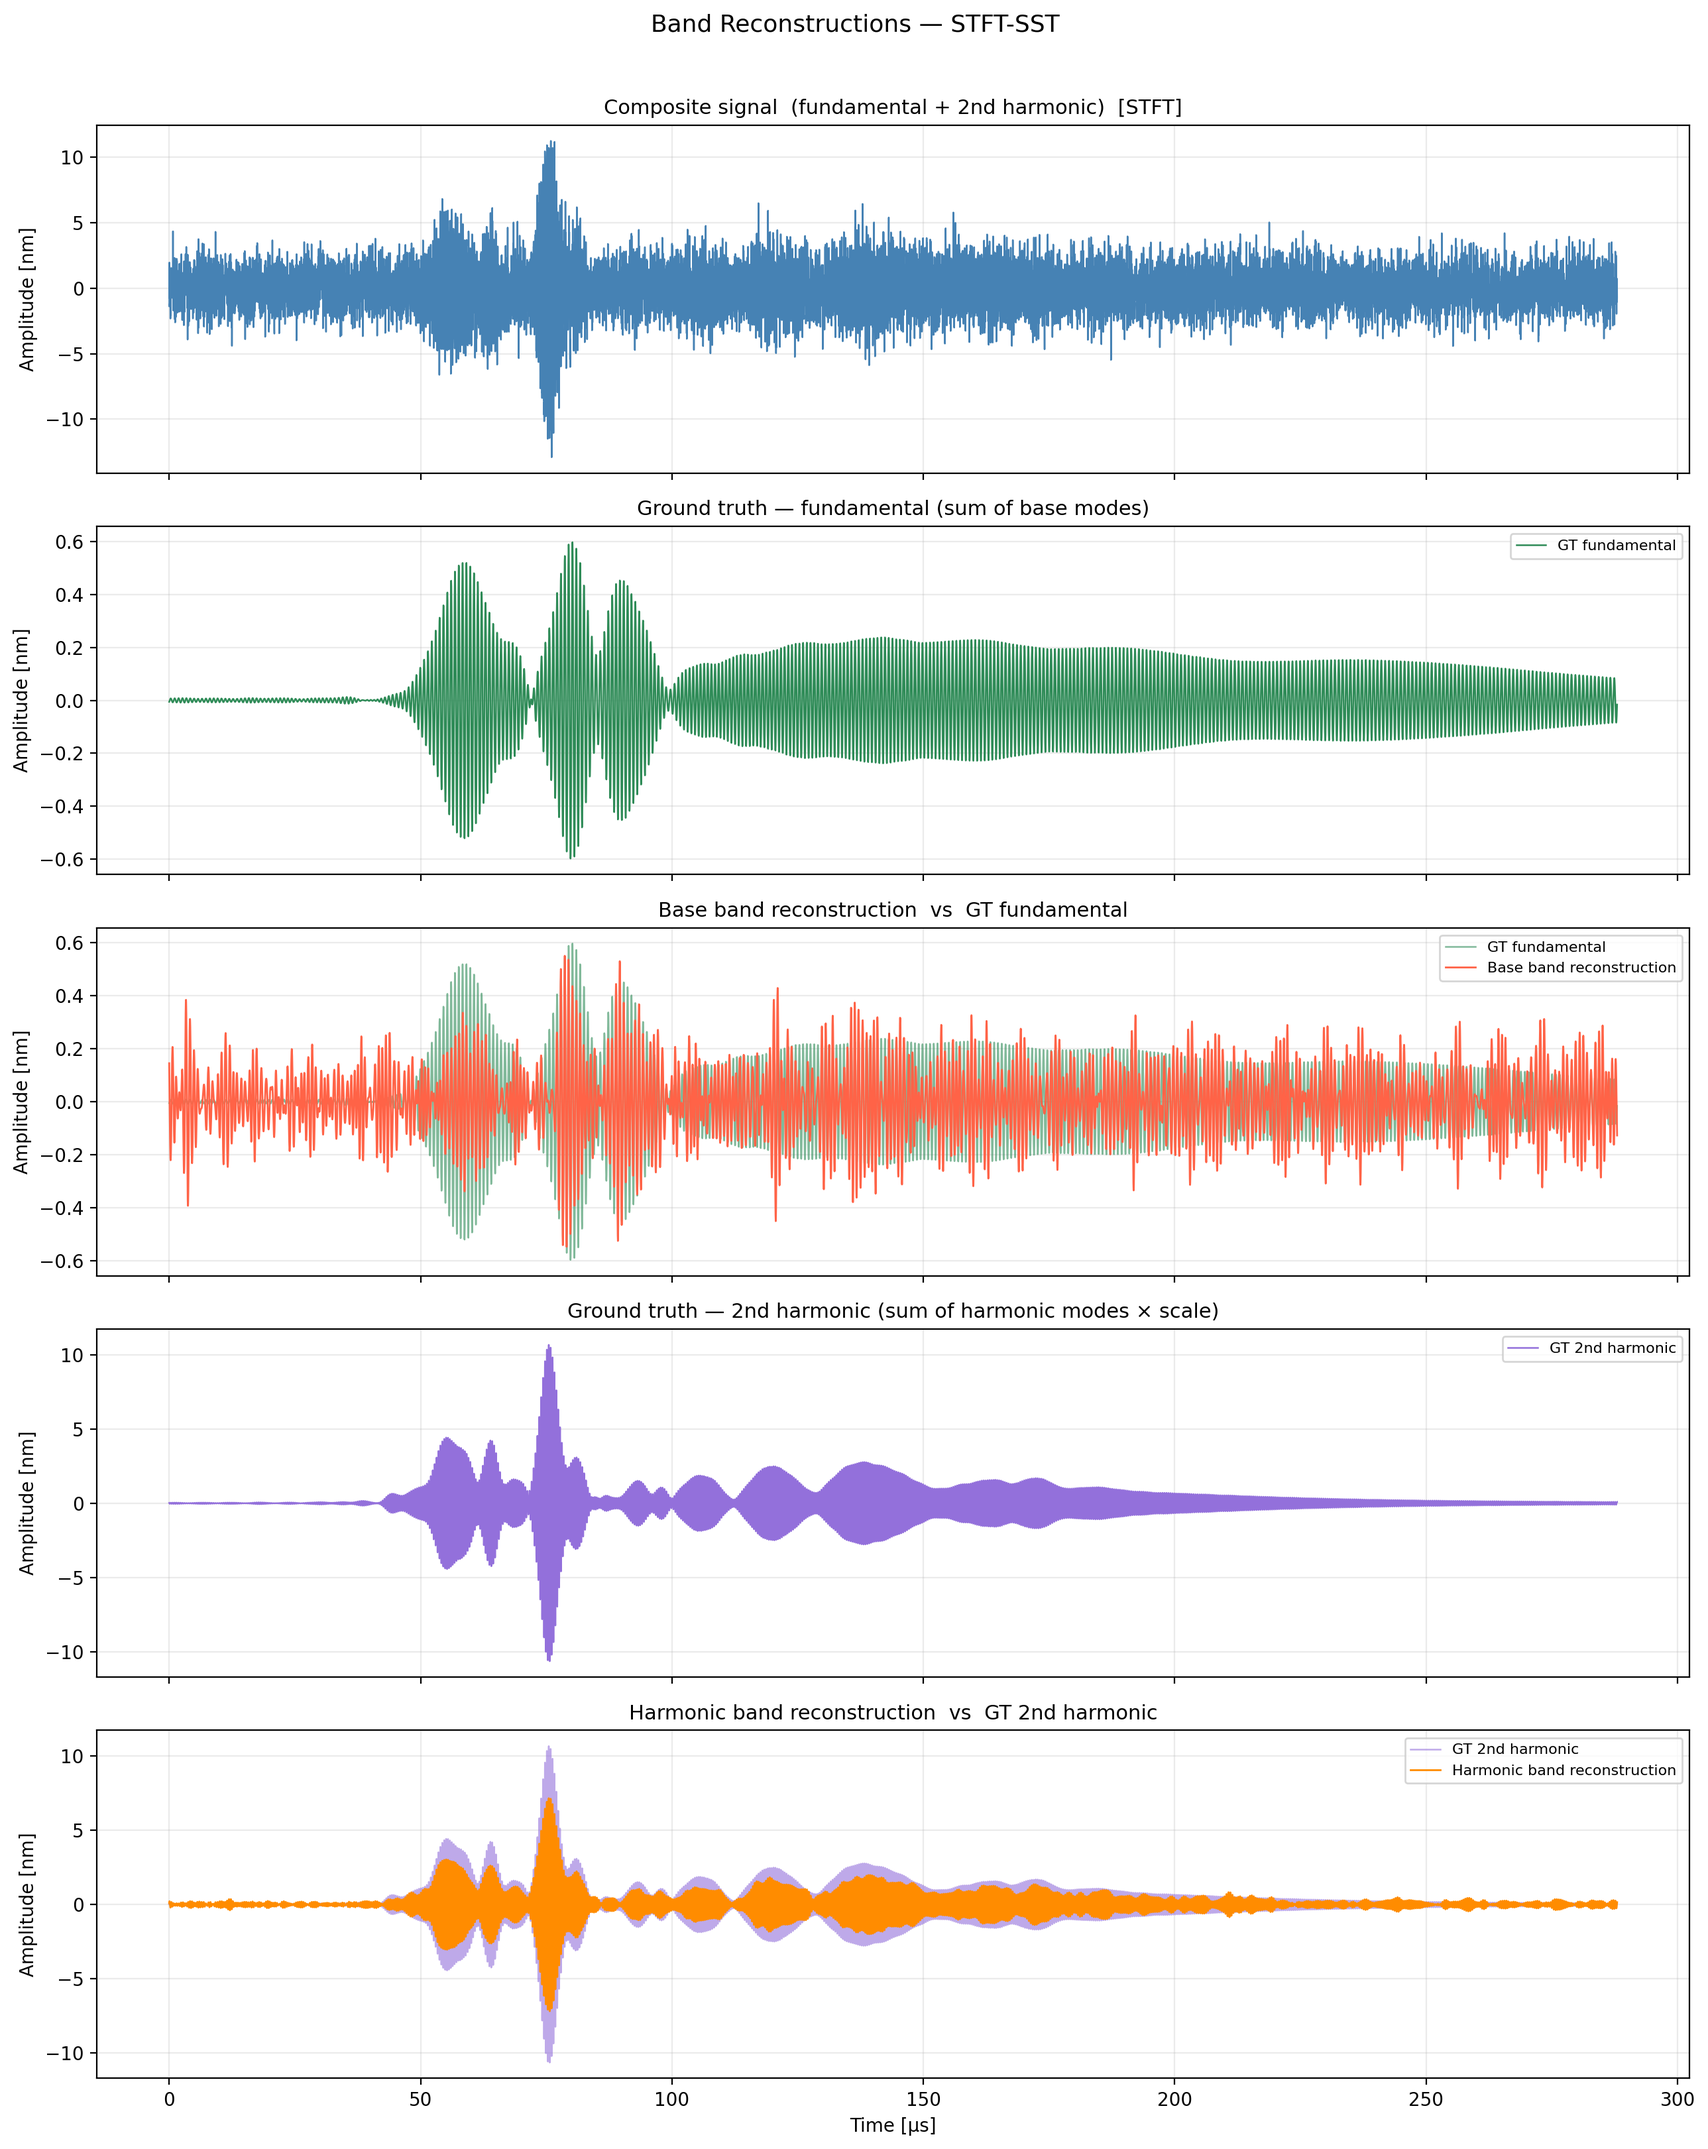
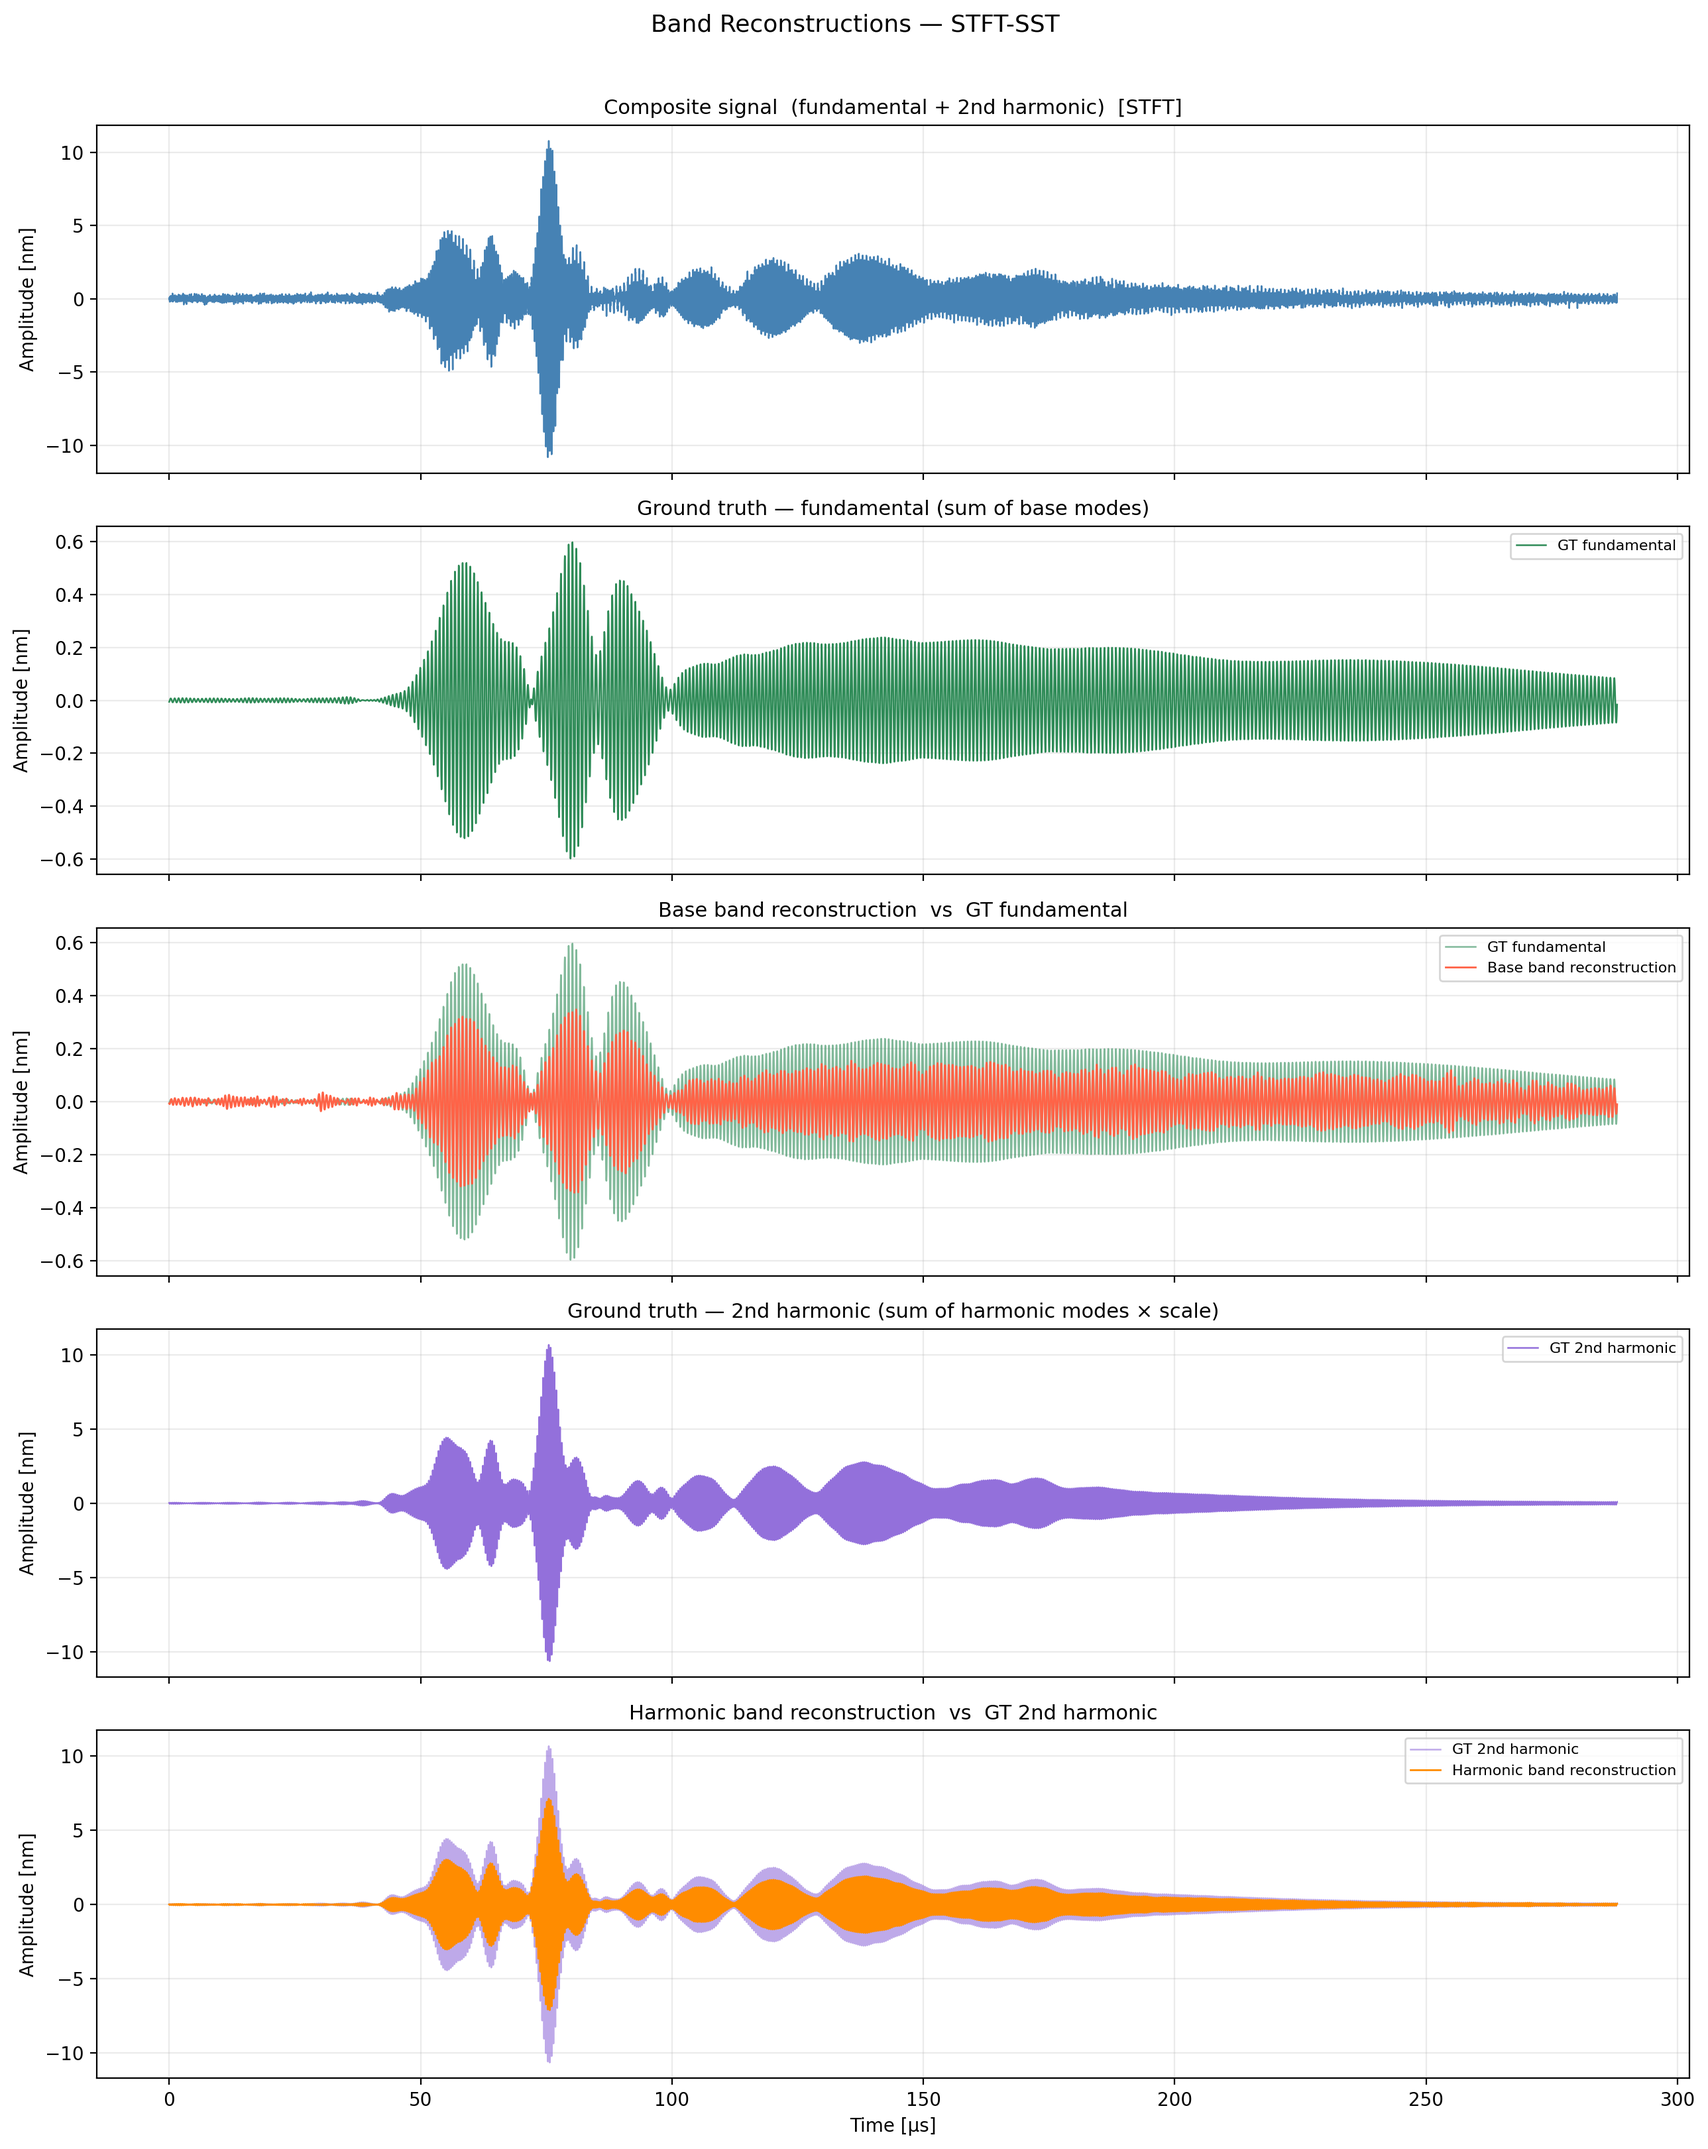
CWT

diff --git a/Mains/test_CWT.py b/Mains/test_CWT.py
@@ -1,0 +1,229 @@
+"""
+test_cwt_reconstruction.py
+──────────────────────────
+Focused test to get a correct CWT band reconstruction.
+Tries multiple reconstruction formulas and prints diagnostics
+so we can see which one matches the ground truth best.
+
+Run from project root.
+"""
+
+import numpy as np
+import pywt
+import matplotlib.pyplot as plt
+import os
+import sys
+sys.path.append(os.path.dirname(os.path.dirname(os.path.abspath(__file__))))
+import preprocess
+
+os.makedirs("plots", exist_ok=True)
+
+# ═══════════════════════════════════════════════════════════════════
+#  PARAMETERS
+# ═══════════════════════════════════════════════════════════════════
+
+noise_level = 0.0    # clean signal so we can judge reconstruction purely
+beta        = 9
+
+A1_mode = "S2 Propagated signal (nm)"
+A2_mode = "S4 Propagated signal (nm)"
+
+dataset_base     = "Data/In-plane_TemporalResponse@7.9866MHzmm@200mm.xlsx"
+dataset_harmonic = "Data/In-plane_A2_TemporalResponse@15.963MHzmm@200mm.xlsx"
+
+modes_base = [
+    "S0 Propagated signal (nm)", "S1 Propagated signal (nm)",
+    "S2 Propagated signal (nm)", "S3 Propagated signal (nm)",
+    "A0 Propagated signal (nm)", "A1 Propagated signal (nm)",
+    "A2 Propagated signal (nm)", "A3 Propagated signal (nm)",
+    "A4 Propagated signal (nm)",
+]
+modes_harmonic = [
+    "S0 Propagated signal (nm)", "S1 Propagated signal (nm)",
+    "S2 Propagated signal (nm)", "S3 Propagated signal (nm)",
+    "S4 Propagated signal (nm)", "S5 Propagated signal (nm)",
+    "S6 Propagated signal (nm)", "S7 Propagated signal (nm)",
+    "S8 Propagated signal (nm)", "A0 Propagated signal (nm)",
+    "A1 Propagated signal (nm)", "A2 Propagated signal (nm)",
+    "A3 Propagated signal (nm)", "A4 Propagated signal (nm)",
+    "A5 Propagated signal (nm)", "A7 Propagated signal (nm)",
+]
+
+wavelet      = "cmor3.0-1.0"
+fmin         = 1.0e6
+fmax         = 4.5e6
+n_freqs      = 400
+
+band_min_base     = 1_100_000
+band_max_base     = 1_500_000
+band_min_harmonic = 2_300_000
+band_max_harmonic = 2_900_000
+
+
+# ═══════════════════════════════════════════════════════════════════
+#  LOAD
+# ═══════════════════════════════════════════════════════════════════
+
+print("[0] Loading …")
+data_base     = preprocess.get_data(dataset_base)
+data_harmonic = preprocess.get_data(dataset_harmonic)
+
+t, signal, second_scale = preprocess.create_signal(
+    data_base, data_harmonic,
+    beta, noise_level,
+    A1_mode, A2_mode,
+    modes_base, modes_harmonic,
+)
+
+# ground truth components
+t_base = data_base["Propagation time (micsec)"].to_numpy()
+t_harm = data_harmonic["Propagation time (micsec)"].to_numpy()
+
+gt_base = np.zeros(len(t))
+for mode in modes_base:
+    gt_base += np.interp(t, t_base, data_base[mode].to_numpy())
+
+gt_harmonic = np.zeros(len(t))
+for mode in modes_harmonic:
+    gt_harmonic += second_scale * np.interp(t, t_harm, data_harmonic[mode].to_numpy())
+
+print(f"  signal max    : {np.abs(signal).max():.6f} nm")
+print(f"  gt_base max   : {np.abs(gt_base).max():.6f} nm")
+print(f"  gt_harmonic max: {np.abs(gt_harmonic).max():.6f} nm")
+
+
+# ═══════════════════════════════════════════════════════════════════
+#  CWT
+# ═══════════════════════════════════════════════════════════════════
+
+print("\n[1] Computing CWT …")
+
+t_s  = t * 1e-6                          # µs → s
+dt   = float(np.mean(np.diff(t_s)))
+fs   = 1.0 / dt
+
+fc     = pywt.central_frequency(wavelet)
+freqs_target = np.linspace(fmin, fmax, n_freqs)
+scales = fc / (freqs_target * dt)
+
+cwtmatr, freqs_out = pywt.cwt(signal, scales, wavelet, sampling_period=dt)
+
+print(f"  fc            : {fc}")
+print(f"  dt            : {dt:.4e} s    fs: {fs/1e6:.3f} MHz")
+print(f"  scales        : {scales.min():.3f} → {scales.max():.3f}")
+print(f"  freqs_out     : {freqs_out.min()/1e6:.3f} → {freqs_out.max()/1e6:.3f} MHz")
+print(f"  cwtmatr max   : {np.abs(cwtmatr).max():.6f}")
+
+# band mask
+mask_base = (freqs_out >= band_min_base) & (freqs_out <= band_max_base)
+mask_harm = (freqs_out >= band_min_harmonic) & (freqs_out <= band_max_harmonic)
+
+cwt_base = cwtmatr[mask_base, :]
+cwt_harm = cwtmatr[mask_harm, :]
+scales_base = scales[mask_base]
+scales_harm = scales[mask_harm]
+
+print(f"\n  base band     : {freqs_out[mask_base].min()/1e6:.3f}–{freqs_out[mask_base].max()/1e6:.3f} MHz  "
+      f"({mask_base.sum()} bins)")
+print(f"  harmonic band : {freqs_out[mask_harm].min()/1e6:.3f}–{freqs_out[mask_harm].max()/1e6:.3f} MHz  "
+      f"({mask_harm.sum()} bins)")
+print(f"  cwt_base max  : {np.abs(cwt_base).max():.6f}")
+print(f"  cwt_harm max  : {np.abs(cwt_harm).max():.6f}")
+
+
+# ═══════════════════════════════════════════════════════════════════
+#  RECONSTRUCTION — try 4 different formulas
+# ═══════════════════════════════════════════════════════════════════
+
+def recon_v1(cwt_b, sc):
+    """Original wavelet_processing formula: 1/a² × d_log_s"""
+    r = np.real(np.sum(cwt_b / sc[:, None]**2, axis=0))
+    return r * np.mean(np.diff(np.log(sc)))
+
+def recon_v2(cwt_b, sc):
+    """1/a × d_log_s  (analytic wavelet fix)"""
+    r = np.real(np.sum(cwt_b / sc[:, None], axis=0))
+    return r * np.mean(np.diff(np.log(sc)))
+
+def recon_v3(cwt_b, sc):
+    """1/sqrt(a) × d_log_s  (energy-normalised CWT convention)"""
+    r = np.real(np.sum(cwt_b / np.sqrt(sc[:, None]), axis=0))
+    return r * np.mean(np.diff(np.log(sc)))
+
+def recon_v4(cwt_b, sc):
+    """1/a × d_a/a  (Torrence & Compo 1998 — most cited geophysics formula)"""
+    da = np.abs(np.diff(sc))
+    da = np.append(da, da[-1])           # pad to same length
+    r  = np.real(np.sum(cwt_b * da[:, None] / sc[:, None], axis=0))
+    return r
+
+print("\n[2] Testing reconstruction formulas …\n")
+print(f"  {'Formula':<10}  {'base max':>12}  {'harm max':>12}  "
+      f"{'base SNR':>10}  {'harm SNR':>10}")
+print("  " + "─"*58)
+
+results = {}
+for name, fn in [("1/a²×dls", recon_v1),
+                 ("1/a×dls",  recon_v2),
+                 ("1/√a×dls", recon_v3),
+                 ("T&C 1998", recon_v4)]:
+
+    rb = fn(cwt_base, scales_base)
+    rh = fn(cwt_harm, scales_harm)
+
+    def snr(ref, rec):
+        n = ref - rec
+        return 10 * np.log10(np.var(ref) / (np.var(n) + 1e-30))
+
+    print(f"  {name:<10}  {np.abs(rb).max():>12.6f}  {np.abs(rh).max():>12.6f}  "
+          f"  {snr(gt_base, rb):>+8.1f}dB  {snr(gt_harmonic, rh):>+8.1f}dB")
+
+    results[name] = (rb, rh)
+
+
+# ═══════════════════════════════════════════════════════════════════
+#  PICK BEST AND PLOT
+# ═══════════════════════════════════════════════════════════════════
+
+# Use the formula with best base SNR
+def snr(ref, rec):
+    n = ref - rec
+    return 10 * np.log10(np.var(ref) / (np.var(n) + 1e-30))
+
+best_name = max(results, key=lambda k: snr(gt_base, results[k][0]))
+print(f"\n  Best formula: {best_name}")
+
+rb_best, rh_best = results[best_name]
+
+fig, axes = plt.subplots(5, 1, figsize=(13, 16), sharex=True)
+
+axes[0].plot(t, signal, color="steelblue", lw=0.8)
+axes[0].set_title("Composite signal (f + 2f)", fontsize=11)
+axes[0].set_ylabel("nm"); axes[0].grid(True, alpha=0.25)
+
+axes[1].plot(t, gt_base, color="seagreen", lw=0.9)
+axes[1].set_title("GT fundamental", fontsize=11)
+axes[1].set_ylabel("nm"); axes[1].grid(True, alpha=0.25)
+
+axes[2].plot(t, gt_base,  color="seagreen",  lw=0.9, alpha=0.5, label="GT")
+axes[2].plot(t, rb_best,  color="tomato",    lw=1.0, label=f"CWT recon ({best_name})")
+axes[2].set_title(f"Base reconstruction vs GT  [SNR={snr(gt_base, rb_best):+.1f} dB]", fontsize=11)
+axes[2].set_ylabel("nm"); axes[2].legend(fontsize=8); axes[2].grid(True, alpha=0.25)
+
+axes[3].plot(t, gt_harmonic, color="mediumpurple", lw=0.9)
+axes[3].set_title("GT 2nd harmonic", fontsize=11)
+axes[3].set_ylabel("nm"); axes[3].grid(True, alpha=0.25)
+
+axes[4].plot(t, gt_harmonic, color="mediumpurple", lw=0.9, alpha=0.5, label="GT")
+axes[4].plot(t, rh_best,     color="darkorange",   lw=1.0, label=f"CWT recon ({best_name})")
+axes[4].set_title(f"Harmonic reconstruction vs GT  [SNR={snr(gt_harmonic, rh_best):+.1f} dB]", fontsize=11)
+axes[4].set_ylabel("nm"); axes[4].set_xlabel("Time [µs]")
+axes[4].legend(fontsize=8); axes[4].grid(True, alpha=0.25)
+
+plt.suptitle(f"CWT Band Reconstruction — {wavelet}  (best: {best_name})", fontsize=13)
+plt.tight_layout()
+path = "plots/cwt_reconstruction_test.png"
+plt.savefig(path, dpi=200, bbox_inches="tight")
+plt.close()
+print(f"\n  Saved: {path}")
+print("\nDone.")

diff --git a/transforms/SST_v2_processing.py b/transforms/SST_v2_processing.py
@@ -404,9 +404,11 @@ def reconstruct_band_cwt(
     if scales_band.size < 2:
         return np.zeros_like(sig)
 
-    # 1/a (not 1/a²) — correct for complex analytic wavelets (cmor, cgau, etc.)
-    recon = np.real(np.sum(cwt_band / scales_band[:, None], axis=0))
-    recon *= np.mean(np.diff(np.log(scales_band)))
+    # Torrence & Compo 1998 — correct formula for analytic wavelets:
+    # sum( W(a,t) * da/a )
+    da   = np.abs(np.diff(scales_band))
+    da   = np.append(da, da[-1])          # pad to match length
+    recon = np.real(np.sum(cwt_band * da[:, None] / scales_band[:, None], axis=0))
 
     return recon
 

diff --git a/Mains/test_sst_v2.py b/Mains/test_sst_v2.py
@@ -31,7 +31,7 @@ from transforms import SST_v2_processing
 # ═══════════════════════════════════════════════════════════════════════════
 
 # --- signal construction (mirrors despair.py) -------------------------------
-noise_level = 1       # 0 = clean, 1.5 = 150% noise
+noise_level = 0.1      # 0 = clean, 1.5 = 150% noise
 beta        = 9            # non-linearity parameter
 
 A1_mode = "S2 Propagated signal (nm)"   # base harmonic mode for β
